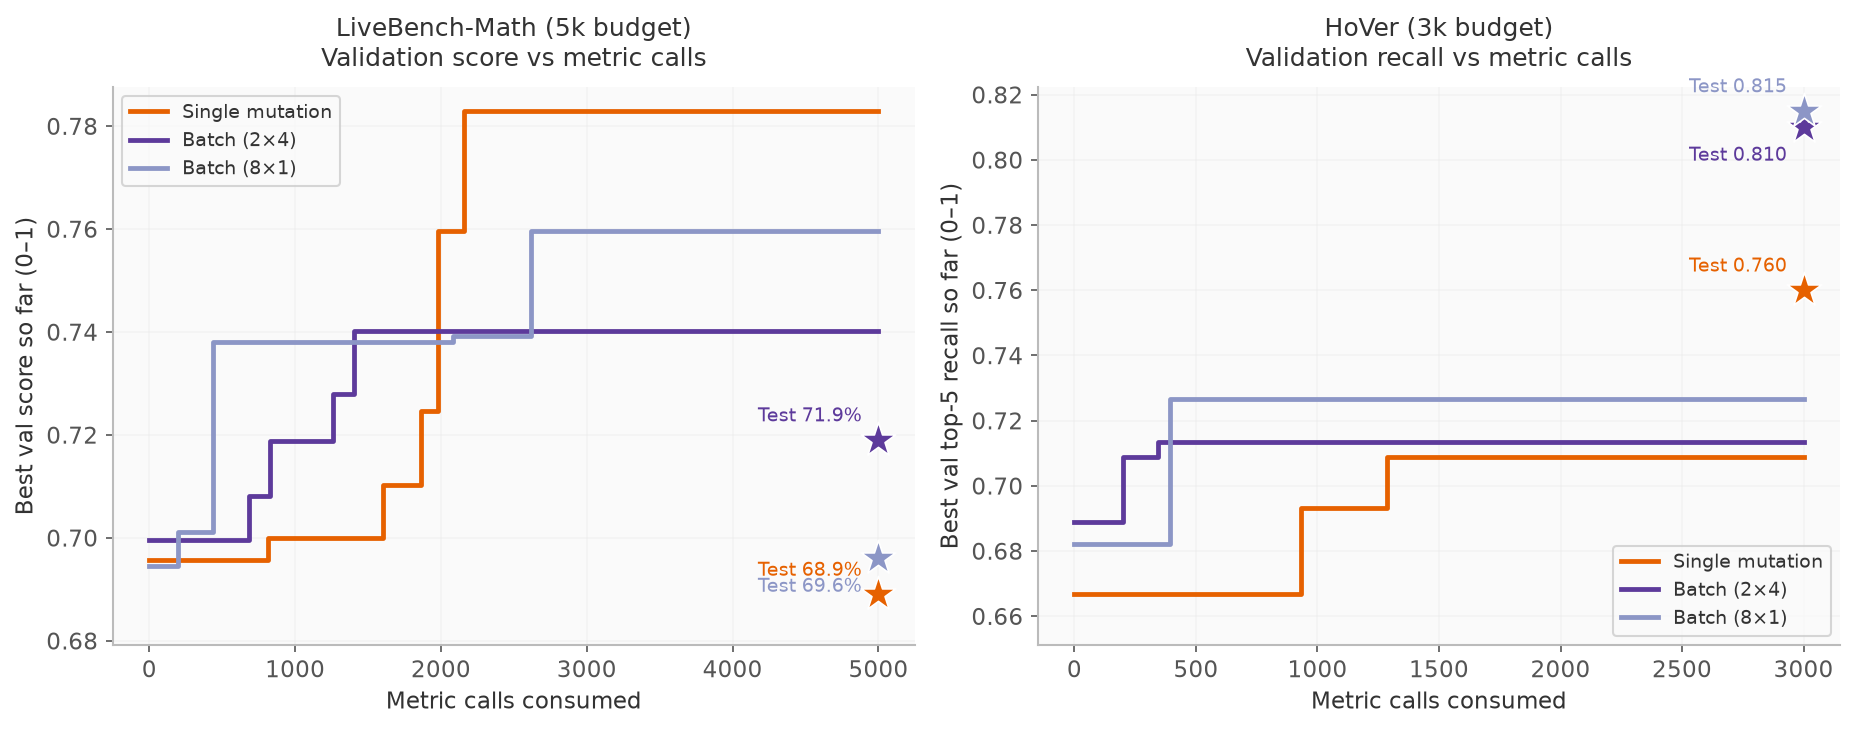
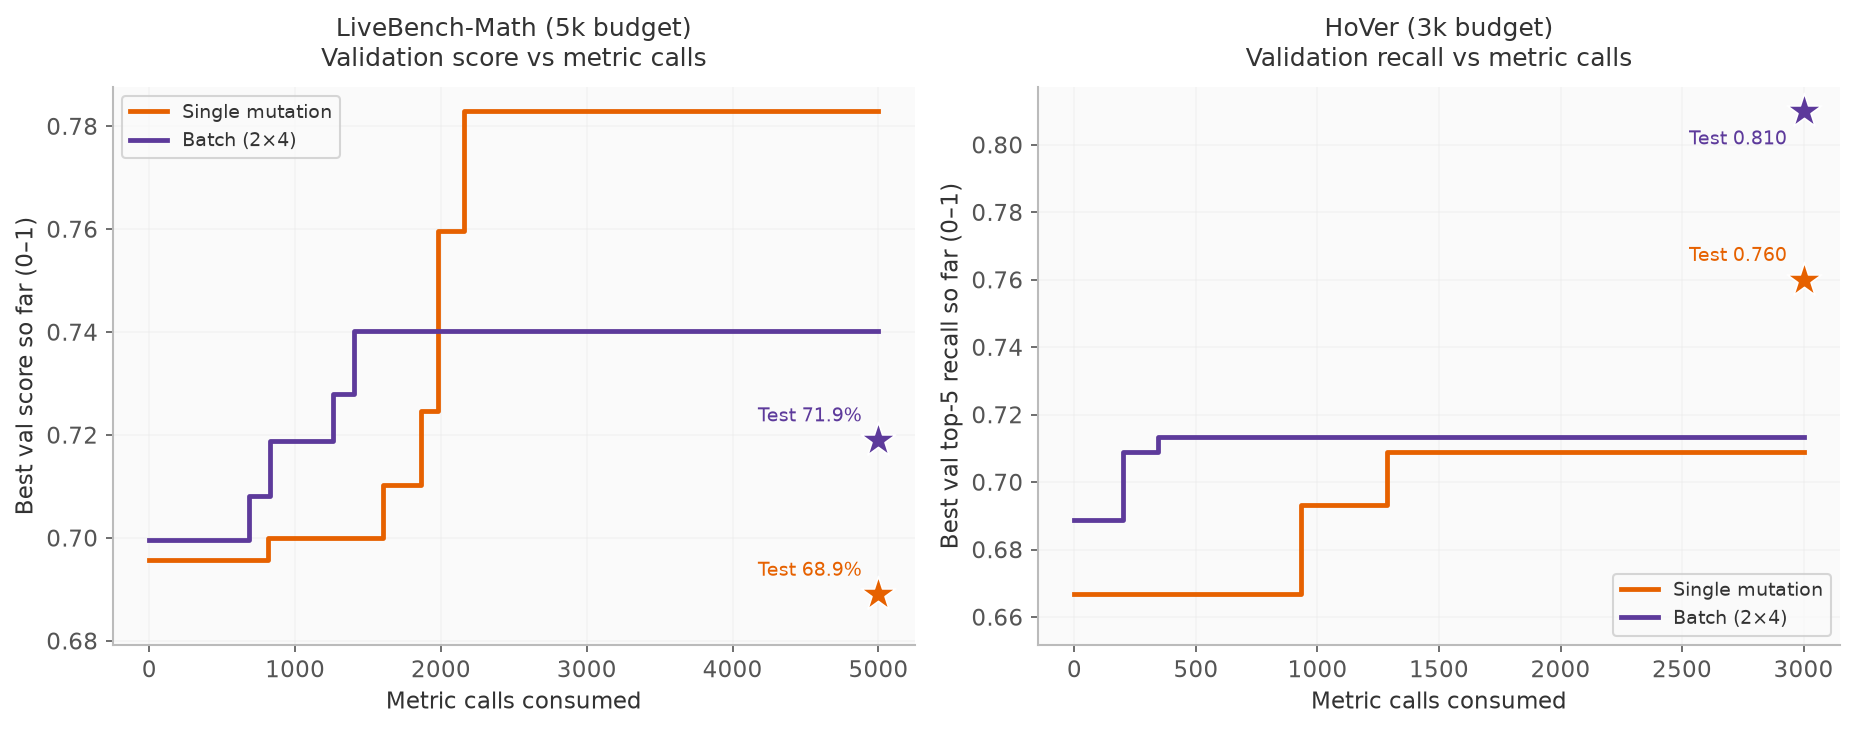
docs(blog): focus the budget-efficiency case study on 2x4
- Compare single mutation against 2x4 alone in Figures 5 and 6 and
  their discussion; report the HoVer test win as 6.0pp and the 2x4
  cost milestones (final score by about $4, passing single by $2.6)
- Point the Figure 5 caption at the test stars; add the Harbor link
  to the Getting started framework list

diff --git a/docs/docs/blog/posts/2026-07-30-parallel-proposals/index.md b/docs/docs/blog/posts/2026-07-30-parallel-proposals/index.md
@@ -110,26 +110,26 @@ In principle, larger P extends more members of the frontier at once, which shoul
 
 ### Batched settings are more budget-efficient
 
-We also probed how efficiently each setting spends its budget during the run. Here we compare one N-scaled and one P-scaled setting at the same width, 2×4 and 8×1, against single mutation on both tasks.
+We also probed how efficiently each setting spends its budget during the run. Here we compare a batched setting, 2×4, against single mutation on both tasks.
 
 #### More quality per metric call
 
-Batched settings dominate small budgets. On LiveBench-Math both batched settings reach validation scores that single mutation needs about 2,000 calls to match, and on HoVer they lead at every budget. Single mutation raises validation scores later in the budget, but still scores the lowest on the held-out test set on both tasks.
+2×4 dominates small budgets: on LiveBench-Math it reaches validation scores that single mutation needs about 2,000 calls to match, and on HoVer it leads at every budget. Single mutation raises validation scores later in the budget, but still scores lower on the held-out test set on both tasks.
 
 <figure markdown="span">
-  ![Two step charts of best validation score against metric calls consumed, for single mutation, 2×4, and 8×1, with stars marking held-out test scores. On LiveBench-Math, 8×1 reaches 0.738 within about 450 calls and 2×4 reaches 0.740 by about 1,400, while single mutation overtakes on validation at about 2,000 calls and ends at 0.783; test stars are 71.9% for 2×4, 69.6% for 8×1, and 68.9% for single mutation. On HoVer, both batched settings lead single mutation at every budget, ending at 0.727 (8×1) and 0.716 (2×4) against 0.709; test recall stars are 0.815, 0.810, and 0.760.](images/budget_pareto.png){ style="width: 100%;" }
-  <figcaption>Figure 5. Best validation quality against metric calls consumed, for single mutation and the width-8 pair 2×4 and 8×1. The best setting changes with the budget, and batched settings dominate small budgets.</figcaption>
+  ![Two step charts of best validation score against metric calls consumed, for single mutation and 2×4, with stars marking held-out test scores. On LiveBench-Math, 2×4 reaches 0.740 by about 1,400 calls, while single mutation overtakes on validation at about 2,000 calls and ends at 0.783; test stars are 71.9% for 2×4 and 68.9% for single mutation. On HoVer, 2×4 leads single mutation at every budget, ending at 0.716 against 0.709; test recall stars are 0.810 and 0.760.](images/budget_pareto.png){ style="width: 100%;" }
+  <figcaption>Figure 5. Best validation quality against metric calls consumed, for single mutation and 2×4. 2×4 dominates small budgets and scores higher on the held-out test set.</figcaption>
 </figure>
 
-On the held-out test sets, 2×4 won 3.0pp over single mutation on LiveBench-Math, and 8×1 won 11.0pp on HoVer. The validation scores tell a different story: on LiveBench-Math, single mutation scored the highest on validation but the lowest on test. Its generalization gap (the drop from validation score to test score) was nine points, against six for 8×1 and only two for 2×4; the larger drop for 8×1 is consistent with the weaker transfer of P-heavy settings described above. On HoVer, every setting's test score landed above its validation score, and the batched settings ended higher on both. This is consistent with the hypothesis above, that committing to more proposals before adapting to the validation set transfers better beyond it.
+On the held-out test sets, 2×4 won 3.0pp over single mutation on LiveBench-Math and 6.0pp on HoVer. The validation scores tell a different story: on LiveBench-Math, single mutation scored higher on validation but lower on test. Its generalization gap (the drop from validation score to test score) was nine points, against only two for 2×4. On HoVer, both settings' test scores landed above their validation scores, and 2×4 ended higher on both. This is consistent with the hypothesis above, that committing to more proposals before adapting to the validation set transfers better beyond it.
 
 #### More quality per dollar
 
-By measuring the total LLM spend during optimization (sum of solver calls and reflection calls), we found that batched settings are also more cost-efficient, reaching strong validation scores within the first few dollars. On LiveBench-Math, 8×1 reaches a 0.73 validation score within about $2.5 of spend, and on HoVer it reaches its final validation score for $2.65. The total spend varies with how long each run's candidates make the solver's outputs (per-call output tokens order the totals on both tasks), but stays comparable across settings, within the $12 to $18 range.
+By measuring the total LLM spend during optimization (sum of solver calls and reflection calls), we found that the batched setting is also cost-efficient, reaching strong validation scores within the first few dollars. On LiveBench-Math, 2×4 reaches its final validation score within about $4 of spend, and on HoVer it passes single mutation's final validation score within about $2.6. The total spend stays comparable across settings, within the $12 to $16 range.
 
 <figure markdown="span">
-  ![Two Pareto curves of best validation quality against cumulative LLM dollars for single mutation, 2×4, and 8×1. Left, LiveBench-Math: single mutation reaches 0.783 by about $5.5 and ends at $13.2; 2×4 ends at 0.740 for $12.4 and 8×1 at 0.760 for $18.1. Right, HoVer: 8×1 jumps to 0.727 by $2.65 and ends at $14.2; 2×4 ends at 0.716 for $15.3 and single mutation at 0.709 for $13.4. Test stars match Figure 5.](images/pareto_cost.png){ style="width: 100%;" }
-  <figcaption>Figure 6. Best validation quality against total LLM spend, solver and reflection calls combined. Batched settings reach strong validation quality within the first few dollars.</figcaption>
+  ![Two Pareto curves of best validation quality against cumulative LLM dollars for single mutation and 2×4. Left, LiveBench-Math: 2×4 reaches 0.740 within about $4 and ends at $12.4; single mutation reaches 0.783 by about $5.5 and ends at $13.2. Right, HoVer: 2×4 passes 0.709 by about $2.6 and ends at 0.716 for $15.3; single mutation ends at 0.709 for $13.4. Test stars match Figure 5.](images/pareto_cost.png){ style="width: 100%;" }
+  <figcaption>Figure 6. Best validation quality against total LLM spend, solver and reflection calls combined. The batched setting reaches strong validation quality within the first few dollars.</figcaption>
 </figure>
 
 ## Getting started
@@ -159,7 +159,7 @@ result = optimize_anything(
 )
 ```
 
-GEPA by default calls your `evaluate` function in parallel, so set `max_concurrency` high enough to match the capacity of your evaluator and inference provider. Optionally, you may provide a custom `batch_evaluate` function via the `batch_evaluator` argument. Since the GEPA engine remains single-threaded and dependency-free, the parallelism is entirely yours to choose. You can plug in any concurrency or distributed-execution framework (Ray, Slurm, Modal, Daytona, and more) to run your evaluations, and any inference backend that supports batch completion to run reflections in parallel, with no changes to GEPA itself. You may also choose or define other sampling and selection strategies. See the [API reference](https://gepa-ai.github.io/gepa/api/) for more details.
+GEPA by default calls your `evaluate` function in parallel, so set `max_concurrency` high enough to match the capacity of your evaluator and inference provider. Optionally, you may provide a custom `batch_evaluate` function via the `batch_evaluator` argument. Since the GEPA engine remains single-threaded and dependency-free, the parallelism is entirely yours to choose. You can plug in any concurrency or distributed-execution framework (Ray, Slurm, Modal, Daytona, [Harbor](https://harborframework.com/), and more) to run your evaluations, and any inference backend that supports batch completion to run reflections in parallel, with no changes to GEPA itself. You may also choose or define other sampling and selection strategies. See the [API reference](https://gepa-ai.github.io/gepa/api/) for more details.
 
 For system-bound evaluations, `max_concurrency` may be constrained by available CPU, GPU, or cluster capacity. For API-backed optimization, much larger worker pools may be practical, subject to provider rate limits and budget. 
 
